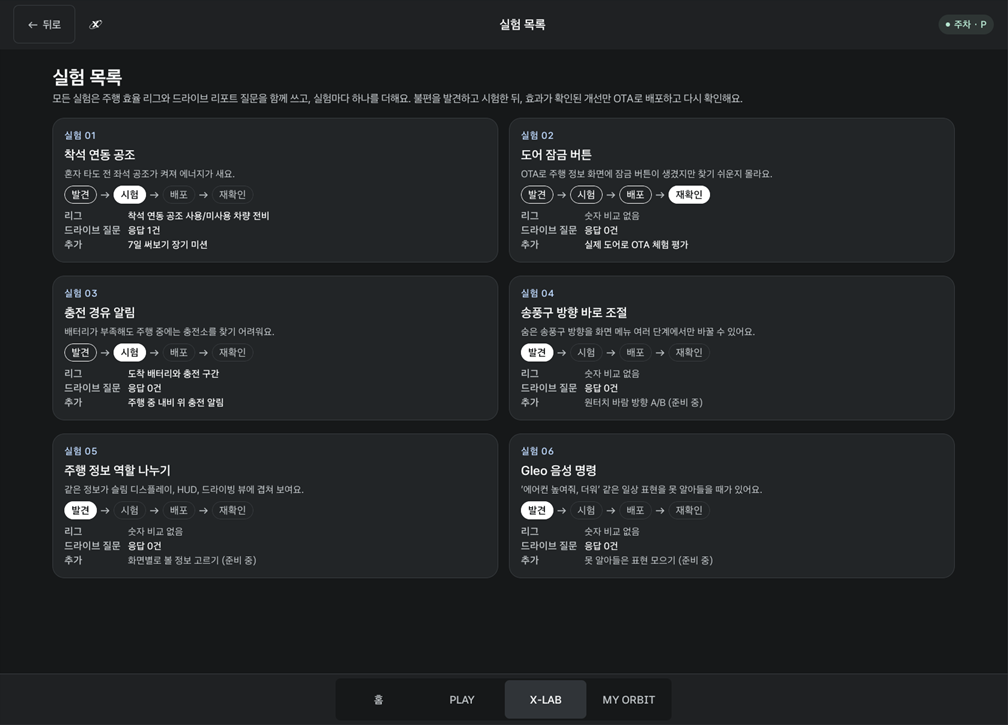
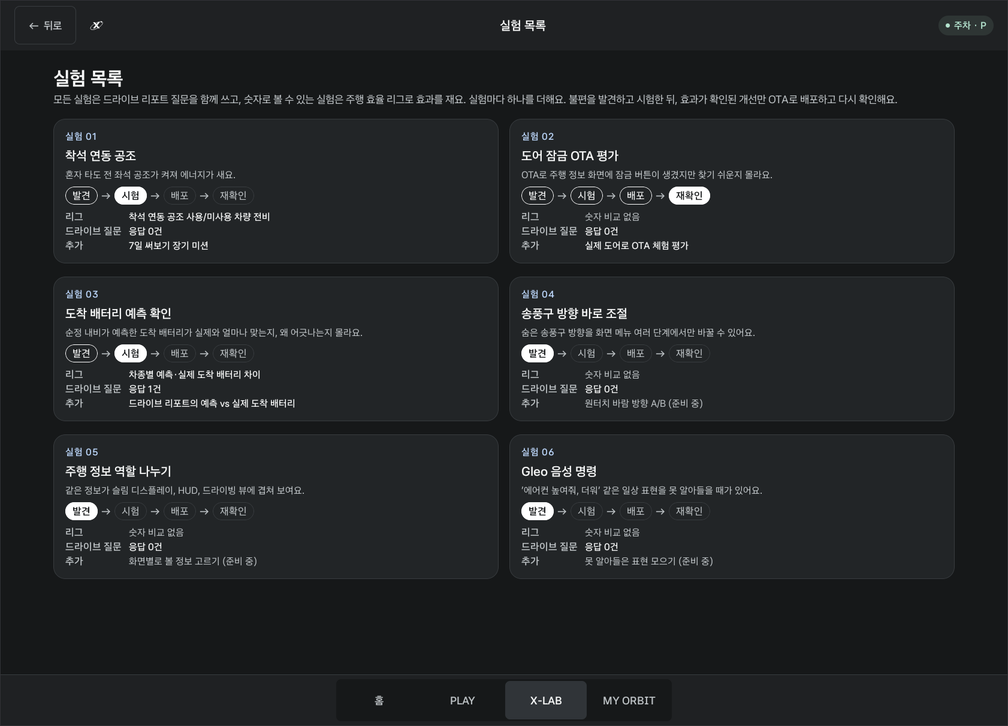
Align names and wording across the app and README, retake stale screenshots
- One name per experiment: "도어 잠금 OTA 평가" on the card, list, mission, screen and
  point history; the climate A/B result and points say "동승자 탑승 공조 비교".
- Climate A/B results no longer show time; older timed records are dropped on load.
- Removed the leftover "충전소 안내 업데이트" point row from a removed experiment.
- League gets an arrival-battery card (my average gap plus example same-model data), so
  experiment 03's league metric exists.
- The arrival question is asked only when the gap is worth explaining, with neutral
  answers; stale predictions above the starting battery are skipped.
- The report no longer says "이달 평균보다 0.0% 좋음".
- README: experiment table matches the app text, demo thresholds say 25%, the charging
  alert is labelled as matching stock behaviour, and the drive, experiment list, A/B,
  league and in-navigation question screenshots are retaken.

diff --git a/app/src/main/java/com/example/orbitx/OrbitData.kt b/app/src/main/java/com/example/orbitx/OrbitData.kt
@@ -32,6 +32,9 @@ internal data class RecommendationRecord(val recommended: String, val chosen: St
 }
 
 /** One drive, measured from the odometer and battery energy at departure (P) and arrival (P). */
+/** Below this the arrival battery counts as matching the prediction. */
+internal const val ArrivalGapNoticeKwh = .05f
+
 internal data class TripReport(
     val mode: String,
     val distanceKm: Float?,
@@ -149,7 +152,7 @@ internal enum class Variant(val title: String) {
 internal enum class ClimateTask(val title: String, val startingTemperature: Float, val passengerGoal: Float) {
     PassengerArrival("동승석 탑승 시 자동 전환", 23f, 23f),
     SeatHold("동승석 온도 유지", 24f, 24f),
-    SyncPreset("앞좌석 한 번에 맞추기", 22f, 23f);
+    SyncPreset("동승자 탑승 공조 비교", 22f, 23f);
 
     val goalSync get() = this == SyncPreset
 }
@@ -380,8 +383,6 @@ internal class OrbitData(private val context: Context) {
         private set
     val availableSyncAward: Int
         get() = if (syncMissionFeedback == null) capMonthly(PointUnit, LocalDate.now()) else 0
-    var chargingOtaReview by mutableStateOf(loadOtaReview("otaChargingCard"))
-        private set
     var otaReview by mutableStateOf(loadOtaReview("otaDriveViewDoorLock"))
         private set
     var labSubmissions by mutableStateOf(loadLabSubmissions())
@@ -397,6 +398,8 @@ internal class OrbitData(private val context: Context) {
 
         balance = 0
         lastTrip = null
+        arrivalChecks = 0
+        arrivalGapAverageKwh = null
         driveJournal = emptyList()
         lastRecommendation = null
         recommendationAccepted = 0
@@ -424,7 +427,6 @@ internal class OrbitData(private val context: Context) {
         syncMissionFeedback = null
         syncMissionAward = 0
         otaReview = null
-        chargingOtaReview = null
         labSubmissions = emptyList()
 
         leagueDemoSeason = null
@@ -657,8 +659,19 @@ internal class OrbitData(private val context: Context) {
      * Keeps the first arrival-battery prediction navigation gives during a drive, i.e. the one made at
      * departure, so it can be checked against the battery the car actually reports on arrival.
      */
+    /** How many drives compared navigation's arrival prediction with the real arrival, and the mean gap. */
+    var arrivalChecks by mutableStateOf(prefs.getInt("arrivalChecks", 0))
+        private set
+    var arrivalGapAverageKwh by mutableStateOf(
+        prefs.getInt("arrivalChecks", 0).takeIf { it > 0 }?.let { prefs.getFloat("arrivalGapSum", 0f) / it },
+    )
+        private set
+
     fun notePredictedArrival(kwh: Float?) {
         if (kwh == null || !kwh.isFinite() || kwh <= 0f || activeMission == null || prefs.contains("tripPredictKwh")) return
+        // A prediction above the battery we start with is stale (made for an earlier state); skip it.
+        val now = freshVehicleSample()?.batteryKwh
+        if (now != null && kwh > now + ArrivalGapNoticeKwh) return
         prefs.edit().putFloat("tripPredictKwh", kwh).apply()
     }
 
@@ -689,6 +702,13 @@ internal class OrbitData(private val context: Context) {
             .putFloat("tripReportPredict", predicted ?: -1f).putFloat("tripReportActual", actual ?: -1f)
             .remove("tripStartKm").remove("tripStartKwh").remove("tripStartPending").remove("tripPredictKwh").apply()
         lastTrip = done
+        done.arrivalGapKwh?.let { gap ->
+            val count = arrivalChecks + 1
+            val sum = prefs.getFloat("arrivalGapSum", 0f) + gap
+            prefs.edit().putInt("arrivalChecks", count).putFloat("arrivalGapSum", sum).apply()
+            arrivalChecks = count
+            arrivalGapAverageKwh = sum / count
+        }
     }
 
     private fun loadTripReport(): TripReport? {
@@ -845,7 +865,8 @@ internal class OrbitData(private val context: Context) {
 
     /** The arrival-battery question only makes sense once the report has both numbers to compare. */
     val tripExperimentAskable: Boolean
-        get() = tripExperimentId != ArrivalBatteryExperiment || lastTrip?.arrivalGapKwh != null
+        get() = tripExperimentId != ArrivalBatteryExperiment ||
+            (lastTrip?.arrivalGapKwh?.let { kotlin.math.abs(it) >= ArrivalGapNoticeKwh } == true)
 
     fun saveExperimentAnswer(answer: String) {
         val id = tripExperimentId ?: return
@@ -987,6 +1008,9 @@ internal class OrbitData(private val context: Context) {
 
     private fun loadComparison(): Comparison? {
         if (!prefs.contains("comfortBaselineMillis")) return null
+        // Older in-app trials (timed taps, other tasks) are not comparable with the real-car SYNC A/B.
+        val task = ClimateTask.entries.firstOrNull { it.name == prefs.getString("comfortTask", null) } ?: ClimateTask.SyncPreset
+        if (task != ClimateTask.SyncPreset || prefs.getInt("comfortBaselineTouches", 0) >= 0) return null
         return Comparison(
             baseline = TrialResult(
                 prefs.getLong("comfortBaselineMillis", 0),
@@ -1002,8 +1026,7 @@ internal class OrbitData(private val context: Context) {
             ),
             preference = prefs.getString("comfortPreference", "응답 건너뜀").orEmpty(),
             reason = prefs.getString("comfortReason", "").orEmpty(),
-            task = ClimateTask.entries.firstOrNull { it.name == prefs.getString("comfortTask", null) }
-                ?: ClimateTask.SyncPreset,
+            task = task,
         )
     }
 

diff --git a/app/src/main/java/com/example/orbitx/LabExperiments.kt b/app/src/main/java/com/example/orbitx/LabExperiments.kt
@@ -38,7 +38,7 @@ internal val LabExperiments = listOf(
         extraPlay = "7일 써보기 장기 미션", extraReady = true,
     ),
     LabExperiment(
-        "door-lock", 2, "도어 잠금 버튼",
+        "door-lock", 2, "도어 잠금 OTA 평가",
         "OTA로 주행 정보 화면에 잠금 버튼이 생겼지만 찾기 쉬운지 몰라요.",
         stage = 3,
         leagueMetric = null,
@@ -52,7 +52,7 @@ internal val LabExperiments = listOf(
         stage = 1,
         leagueMetric = "차종별 예측·실제 도착 배터리 차이",
         driveQuestion = "도착 배터리가 예측과 다른 이유가 있었나요?",
-        answers = listOf("공조를 많이 썼어요", "길이 막히거나 바뀌었어요", "특별한 이유 없어요"),
+        answers = listOf("공조 사용", "정체·경로", "모르겠어요"),
         extraPlay = "드라이브 리포트의 예측 vs 실제 도착 배터리", extraReady = true,
     ),
     LabExperiment(

diff --git a/app/src/main/java/com/example/orbitx/ExperimentPrompt.kt b/app/src/main/java/com/example/orbitx/ExperimentPrompt.kt
@@ -35,7 +35,7 @@ internal object ExperimentPrompt {
             // Shown right after a navigation arrival; the car UI only pops navigation-category notices over the map.
             .setCategory(Notification.CATEGORY_NAVIGATION)
             .setContentTitle(experiment.driveQuestion)
-            .setContentText("X-LAB 실험 %02d · %s · 탭 한 번으로 답해 주세요".format(experiment.number, experiment.title))
+            .setContentText("X-LAB 실험 %02d · %s".format(experiment.number, experiment.title))
             .setAutoCancel(true)
         // Notifications show at most three actions; every experiment has three short answers that fit a heads-up button.
         experiment.answers.take(3).forEachIndexed { index, answer ->

diff --git a/README.md b/README.md
@@ -30,7 +30,7 @@
 
 운전자는 리그·드라이브·미션으로 참여하며 포인트를 받고, 현대자동차그룹은 **무엇이 불편한지, 왜 그런지, 개선이 실제로 나아졌는지**를 근거로 다음 업데이트를 결정합니다.
 
-> **공조 효율화는 이 순환의 첫 번째 사례일 뿐입니다.** 리그에서 "빈 좌석 공조가 전비를 깎는다"는 불편을 발견하고, X-LAB에서 착석 연동 공조를 시험하고, 효과가 확인되면 OTA로 배포하는 흐름을 처음부터 끝까지 보여주기 위해 골랐습니다. 같은 틀로 도어 잠금 OTA 평가와 순정 내비의 도착 배터리 예측을 실제 도착 배터리와 맞춰 보는 실험을 구현했고, 지금 Pleos Connect에서 불편한 점(송풍구 방향 조절, 여러 화면에 겹치는 주행 정보, Gleo 음성 명령 실패)을 다음 실험으로 올려 두었습니다. 모든 실험은 리그와 드라이브 리포트 질문을 공통으로 쓰고 실험마다 PLAY 하나만 더합니다.
+> **공조 효율화는 이 순환의 첫 번째 사례일 뿐입니다.** 리그에서 "빈 좌석 공조가 전비를 깎는다"는 불편을 발견하고, X-LAB에서 착석 연동 공조를 시험하고, 효과가 확인되면 OTA로 배포하는 흐름을 처음부터 끝까지 보여주기 위해 골랐습니다. 같은 틀로 도어 잠금 OTA 평가와 순정 내비의 도착 배터리 예측을 실제 도착 배터리와 맞춰 보는 실험을 구현했고, 지금 Pleos Connect에서 불편한 점(송풍구 방향 조절, 여러 화면에 겹치는 주행 정보, Gleo 음성 명령 실패)을 다음 실험으로 올려 두었습니다. 모든 실험은 드라이브 리포트 질문을 공통으로 쓰고, 숫자로 볼 수 있는 실험은 주행 효율 리그로 효과를 재며, 실험마다 PLAY 하나만 더합니다.
 
 ### 이름에 담은 뜻
 
@@ -50,20 +50,20 @@ Pleos Connect v2.1.0 에뮬레이터에서 현재 빌드로 캡처했습니다. 
 | 홈 | 주행 효율 리그 |
 | --- | --- |
 | ![홈](docs/screenshots/01_home.png) | ![리그](docs/screenshots/02_league.png) |
-| 슬로건과 인사말, PLAY·X-LAB 진입, 포인트 | 이달 주행 18 km·추정 전비 6.0 km/kWh, 공조 인사이트와 같은 차종 비교(예시), 순위(예시) |
+| 슬로건과 인사말, PLAY·X-LAB 진입, 포인트 | 이달 주행 기록, 공조 인사이트와 같은 차종 비교(예시), 도착 배터리 예측 인사이트(내 기록 + 예시), 순위(예시) |
 | **드라이브** | **X-LAB** |
 | ![드라이브](docs/screenshots/04_drive.png) | ![X-LAB](docs/screenshots/08_xlab_experiments.png) |
-| 드라이브 리포트(18 km · 3 kWh · 6.0 km/kWh), X-LAB 실험 질문, 나의 드라이브 기록 | X-LAB → 실험 목록: 실험 6개의 단계(발견 → 시험 → 배포 → 재확인)와 연결된 PLAY, 응답 수 |
+| 드라이브 리포트(31 km · 5.9 kWh · 5.3 km/kWh, 도착 배터리 예측 54.0 → 실제 52.1 kWh), 실험 03 질문, 나의 드라이브 기록 | X-LAB → 실험 목록: 실험 6개의 단계(발견 → 시험 → 배포 → 재확인)와 연결된 PLAY, 응답 수 |
 | **착석 연동 공조** | **OTA 평가 (실제 도어 제어)** |
 | ![공조](docs/screenshots/09_climate.png) | ![OTA](docs/screenshots/10_ota.png) |
 | 빈 차량을 감지해 순정 공조를 끄고 "에너지 절약" 표시 | Vehicle SDK로 네 문을 잠그고 풀며 버튼을 평가 |
 | **MY ORBIT** | **개선안 비교 (실제 차량 A/B)** |
 | ![MY ORBIT](docs/screenshots/11_my_orbit.png) | ![A/B 비교](docs/screenshots/13_ab_compare.png) |
-| 포인트와 블루멤버스 전환 안내 | 순정 공조로 직접 SYNC 켜기 vs 착석하면 자동으로, 운전자가 손대야 하는지 비교 |
+| 포인트와 블루멤버스 전환 안내 | 순정 공조로 직접 SYNC 켜기(직접 조작) vs 착석하면 자동으로(조작 0회), 운전자가 손대야 하는지 비교 |
 
 ### 주행 중 (기어 D)
 
-| 앱 화면 잠금 | 순정 내비 위 충전 알림 | 알림 버튼 → 순정 내비 충전소 목록 |
+| 앱 화면 잠금 | 순정 내비 위 충전 알림 (순정 저잔량 안내와 같은 역할) | 알림 버튼 → 순정 내비 충전소 목록 |
 | --- | --- | --- |
 | ![주행 중 잠금](docs/screenshots/03_drive_lock.png) | ![내비 알림](docs/screenshots/05_nav_alert_driving.png) | ![충전소](docs/screenshots/06_nav_chargers.png) |
 | Pleos 주행 제한에 따라 "주행 중에는 사용할 수 없습니다." 표시. P로 돌아오면 다시 조작 | 앱을 열지 않고 내비 위에 제안 | 경로 주변 충전소를 고르면 내비가 경유지로 추가 |
@@ -116,7 +116,7 @@ Pleos Connect v2.1.0 에뮬레이터에서 현재 빌드로 캡처했습니다. 
 </details>
 
 **미션**
-- 데일리·장기 미션으로 기능을 써 보게 합니다. 예를 들어 SYNC 미션은 순정 SYNC를 실제로 켜 본 뒤 그동안 쓰지 않은 이유(몰랐음 / 사용법 모름 / 필요 없음)를 묻습니다. **실제 SDK**
+- 데일리·장기 미션으로 기능을 써 보게 합니다. 예를 들어 SYNC 미션은 순정 SYNC를 실제로 켜 본 뒤 그동안 쓰지 않은 이유(몰랐음 / 사용법 모름 / 필요 없음 등)를 묻습니다. **실제 SDK**
 
 | 분류 | 미션 | 시연 보상 |
 | --- | --- | ---: |
@@ -136,16 +136,16 @@ Pleos Connect v2.1.0 에뮬레이터에서 현재 빌드로 캡처했습니다. 
 
 **실험 목록: 공통 PLAY 2개 + 실험마다 하나**
 
-모든 실험은 **주행 효율 리그**(숫자로 효과 측정)와 **드라이브 리포트 질문**(도착 직후 이유 수집)을 함께 쓰고, 실험마다 PLAY를 하나만 더합니다. 드라이브마다 실험 질문을 하나씩 돌려 가며 묻습니다. 도착 후 주차하면 **내비 위 알림 버튼**으로 앱을 열지 않고 답할 수 있고, 앱의 드라이브 리포트에서도 답할 수 있습니다. 응답 수는 **X-LAB → 실험 목록**의 실험 카드에 쌓입니다. 실험 하나는 설정 묶음(단계, 리그 지표, 드라이브 질문, 추가 PLAY)이라 새 실험을 넣어도 PLAY 화면을 고칠 필요가 없습니다. 운영 단계에서는 이 설정을 서버에서 내려보냅니다.
+모든 실험은 **드라이브 리포트 질문**(도착 직후 이유 수집)을 함께 쓰고, 숫자로 볼 수 있는 실험은 **주행 효율 리그**로 효과를 잽니다. 실험마다 PLAY를 하나만 더합니다. 드라이브마다 실험 질문을 하나 묻는데, 내비 안내로 다녀와 도착 배터리 예측과 실제가 다르면 실험 03 질문을, 그 밖에는 나머지 실험을 돌려 가며 묻습니다. 도착 후 주차하면 **내비 위 알림 버튼**으로 앱을 열지 않고 답할 수 있고, 앱의 드라이브 리포트에서도 답할 수 있습니다. 응답 수는 **X-LAB → 실험 목록**의 실험 카드에 쌓입니다. 실험 하나는 설정 묶음(단계, 리그 지표, 드라이브 질문, 추가 PLAY)이라 새 실험을 넣어도 PLAY 화면을 고칠 필요가 없습니다. 운영 단계에서는 이 설정을 서버에서 내려보냅니다.
 
 | 실험 | 불편·낭비 | 리그 | 드라이브 질문 | 추가 PLAY | 단계 |
 | --- | --- | --- | --- | --- | --- |
-| 01 착석 연동 공조 | 혼자 타도 전 좌석 공조가 켜짐 | 사용/미사용 차량 전비 | 공조가 쾌적했나요? | 7일 장기 미션 | 시험 |
-| 02 도어 잠금 버튼 | OTA로 생긴 버튼을 찾기 쉬운지 모름 | - | 잠금 버튼을 바로 찾았나요? | 실제 도어 OTA 체험 평가 | 재확인 |
-| 03 도착 배터리 예측 확인 | 순정 내비의 도착 배터리 예측이 실제와 얼마나 맞는지, 왜 어긋나는지 모름 | 차종별 예측·실제 도착 배터리 차이 | 예측과 다른 이유가 있었나요? | 드라이브 리포트의 예측 vs 실제 | 시험 |
-| 04 송풍구 방향 바로 조절 | 숨은 송풍구를 화면 메뉴 여러 단계로만 조절 | - | 바람 방향 바꾸다 불편했나요? | 원터치 바람 방향 A/B (준비 중) | 발견 |
-| 05 주행 정보 역할 나누기 | 같은 정보가 슬림 디스플레이·HUD·드라이빙 뷰에 겹침 | - | 여러 화면에 보여 헷갈렸나요? | 화면별 볼 정보 고르기 (준비 중) | 발견 |
-| 06 Gleo 음성 명령 | "에어컨 높여줘, 더워" 같은 일상 표현 인식 실패 | - | 못 알아들은 말이 있었나요? | 못 알아들은 표현 모으기 (준비 중) | 발견 |
+| 01 착석 연동 공조 | 혼자 타도 전 좌석 공조가 켜짐 | 착석 연동 공조 사용/미사용 차량 전비 | 오늘 공조가 쾌적했나요? | 7일 써보기 장기 미션 | 시험 |
+| 02 도어 잠금 OTA 평가 | OTA로 생긴 버튼을 찾기 쉬운지 모름 | - | 도어 잠금 버튼을 바로 찾았나요? | 실제 도어로 OTA 체험 평가 | 재확인 |
+| 03 도착 배터리 예측 확인 | 순정 내비의 도착 배터리 예측이 실제와 얼마나 맞는지, 왜 어긋나는지 모름 | 차종별 예측·실제 도착 배터리 차이 | 도착 배터리가 예측과 다른 이유가 있었나요? | 드라이브 리포트의 예측 vs 실제 도착 배터리 | 시험 |
+| 04 송풍구 방향 바로 조절 | 숨은 송풍구를 화면 메뉴 여러 단계로만 조절 | - | 오늘 바람 방향을 바꾸다 불편했나요? | 원터치 바람 방향 A/B (준비 중) | 발견 |
+| 05 주행 정보 역할 나누기 | 같은 정보가 슬림 디스플레이·HUD·드라이빙 뷰에 겹침 | - | 같은 정보가 여러 화면에 보여 헷갈렸나요? | 화면별로 볼 정보 고르기 (준비 중) | 발견 |
+| 06 Gleo 음성 명령 | "에어컨 높여줘, 더워" 같은 일상 표현 인식 실패 | - | Gleo가 못 알아들은 말이 있었나요? | 못 알아들은 표현 모으기 (준비 중) | 발견 |
 
 
 ### MY ORBIT · 보상
@@ -213,7 +213,7 @@ PC 브라우저에서 [Pleos Virtual Console](http://127.0.0.1:8088/)을 열고 
 | 추정 전비 | **Motion → Odometer**, **Energy → Battery Energy** | PLAY → 주행 효율 리그 |
 | 충전 구간 제외 | **Energy → Charge Switch**, **Battery Energy** | PLAY → 주행 효율 리그 |
 | 빈 좌석 공조 낭비 | **Climate → Power**, **Convenience → Seat Occupancy** | 리그 인사이트, X-LAB → 착석 연동 공조 |
-| 저잔량 추천·충전 알림 | **Energy → Battery SOC** (20% 이하) | PLAY → 드라이브, 내비 안내 중 알림 |
+| 저잔량 추천·충전 알림 (순정과 같은 역할) | **Energy → Battery SOC** (25% 이하) | PLAY → 드라이브, 내비 안내 중 알림 |
 | 도착 배터리 예측 vs 실제 | 내비 안내 시작 후 **Gear Selection** D, **Motion → Odometer**·**Energy → Battery Energy** 변경, 다시 P | PLAY → 드라이브 리포트 |
 | 동승자 추천·공조 | **Convenience → Seat Occupancy** | PLAY → 드라이브, X-LAB → 착석 연동 공조 |
 | 왕복 가능 거리·리포트 | **Energy → Remaining Range**, **Battery Energy**, **Motion → Odometer** | PLAY → 드라이브 |
@@ -242,7 +242,7 @@ PC 브라우저에서 [Pleos Virtual Console](http://127.0.0.1:8088/)을 열고 
 
 1. 기어 **P**에서 **PLAY → 드라이브**를 엽니다. 추천 카드의 버튼(예: 전망대 찾기)으로 순정 내비 검색을 엽니다. 다른 모드는 **다른 모드 고르기**에서 고릅니다.
 2. 내비에서 목적지 안내를 시작합니다. ORBIT X로 돌아오면 드라이브가 자동으로 시작되고 목적지가 연결되어 남은 거리·시간이 보입니다.
-3. 주행 중 알림을 보려면 **Energy → Battery SOC**를 20% 이하로 낮춘 상태에서 안내를 시작하고, 기어를 **D**로 바꿉니다. 내비 위에 알림이 뜨고 **충전소 경유**를 누르면 경로 주변 충전소 목록이 열립니다.
+3. 주행 중 충전 알림(순정 저잔량 안내와 같은 역할)을 보려면 **Energy → Battery SOC**를 25% 이하로 낮춘 상태에서 안내를 시작하고, 기어를 **D**로 바꿉니다. 내비 위에 알림이 뜨고 **충전소 경유**를 누르면 경로 주변 충전소 목록이 열립니다.
 4. 기어를 **P**로 돌리고 **도착 시연**을 누르면 드라이브 리포트와 기분 한 줄 질문, 나의 드라이브 기록이 이어집니다. 실제 도착 이벤트가 오면 같은 흐름이 자동으로 진행됩니다.
 5. 도착 배터리 예측 vs 실제: 배터리 **58.0 kWh**에서 팔당전망대 안내를 시작하면 내비 예측(약 54.0 kWh)이 저장됩니다. 기어 **D**에서 **Odometer**를 **31 km** 올리고 **Battery Energy**를 **52.1 kWh**로 낮춘 뒤 **P**로 바꾸고 **도착 시연**을 누르면, 리포트에 **54.0 → 52.1 kWh**와 "예측보다 1.9 kWh 더 씀"이 나옵니다.
 
@@ -290,7 +290,7 @@ PC 브라우저에서 [Pleos Virtual Console](http://127.0.0.1:8088/)을 열고 
 
 | 개발팀이 답할 질문 | 비교할 지표 | 결과를 쓰는 예 |
 | --- | --- | --- |
-| 새 기능이 기존 방식보다 편한가? | 과제 완료율, 조작 횟수·시간, 오류·중단 비율, 선호와 이유 | 자동 전환이 편해도 오작동 우려가 많으면 적용 조건과 상태 표시부터 고쳐 다시 비교 |
+| 새 기능이 기존 방식보다 편한가? | 과제 완료율, 운전자 조작 필요 여부·횟수, 오류·중단 비율, 선호와 이유 | 자동 전환이 편해도 오작동 우려가 많으면 적용 조건과 상태 표시부터 고쳐 다시 비교 |
 | 기능을 왜 안 쓰는가? | 미사용 이유 비율 (몰랐음 / 사용법 모름 / 필요 없음) | 몰랐다면 노출 위치, 어려웠다면 안내, 필요가 낮다면 기능 우선순위를 재검토 |
 | 첫 체험 뒤에도 계속 쓰는가? | 서로 다른 날의 사용 횟수, 7일 완료율, 계속 쓸 의향 | 첫날만 좋고 이어지지 않으면 반복 사용 중 불편을 점검 |
 | OTA 뒤 무엇을 고쳐야 하나? | 버전별 버튼 발견율, 완료율, 불편·만족 응답 | 버튼은 유용한데 못 찾는다면 기능을 빼지 않고 위치와 아이콘을 수정 |
